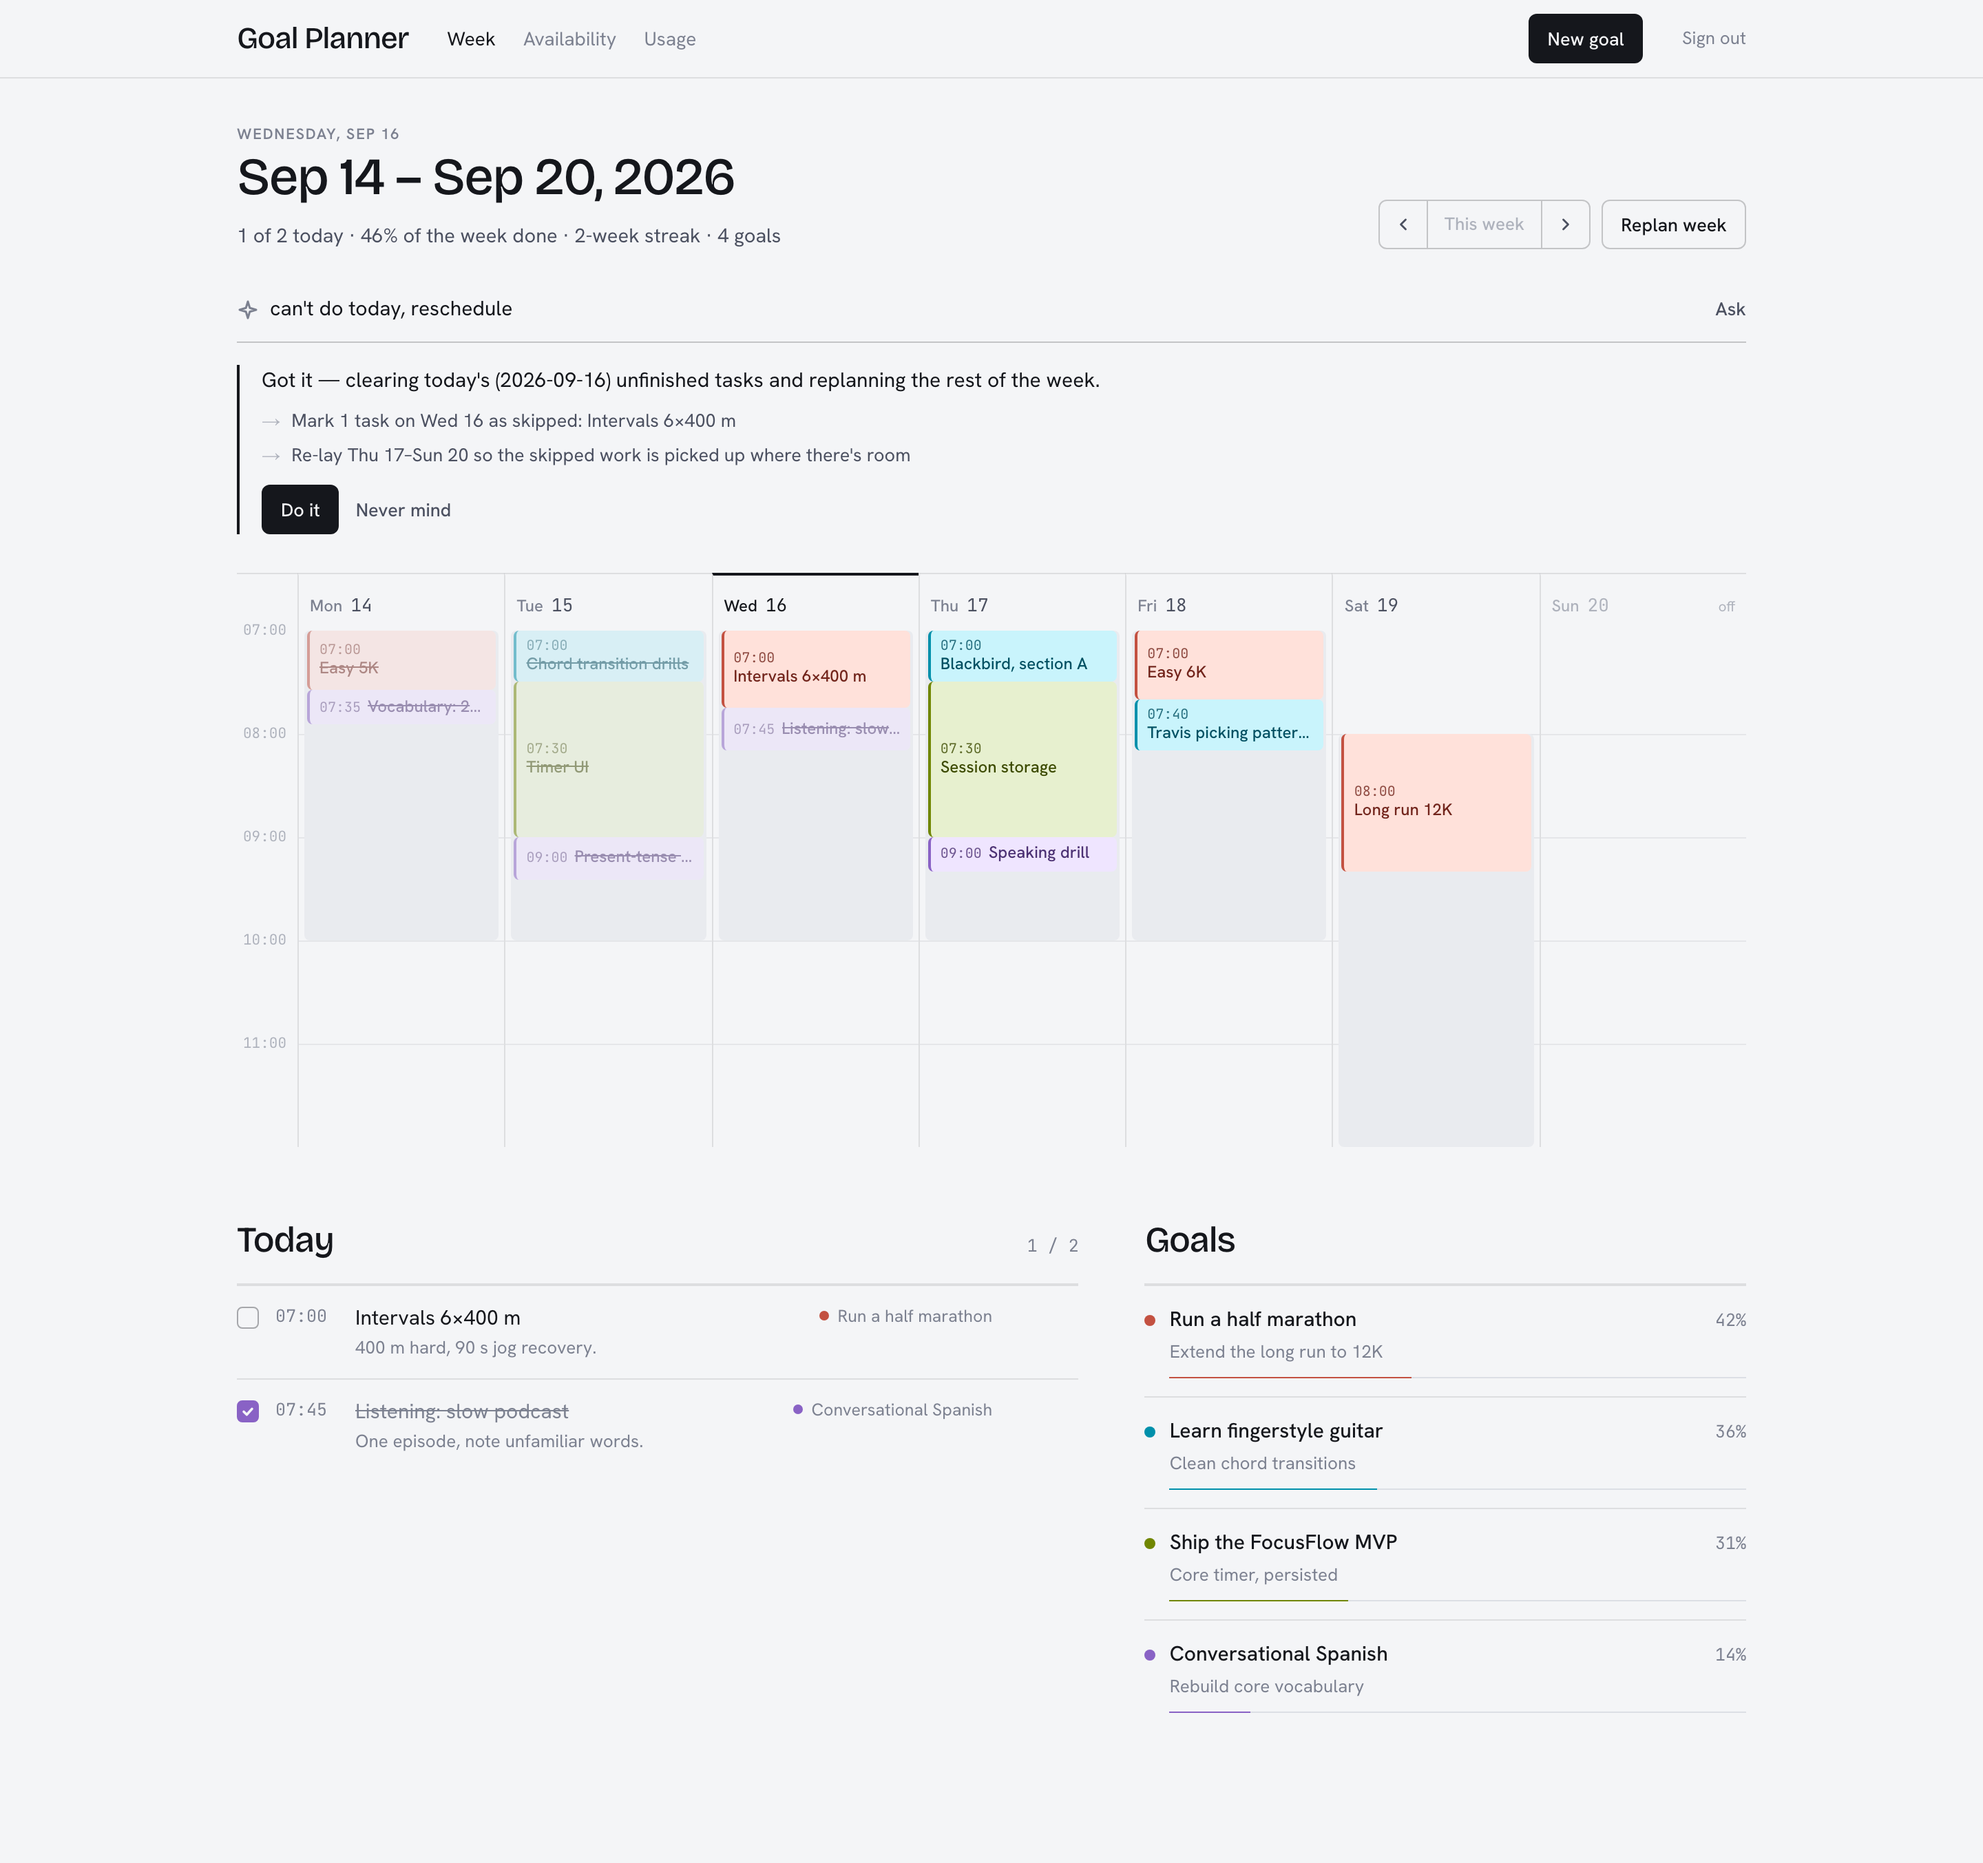
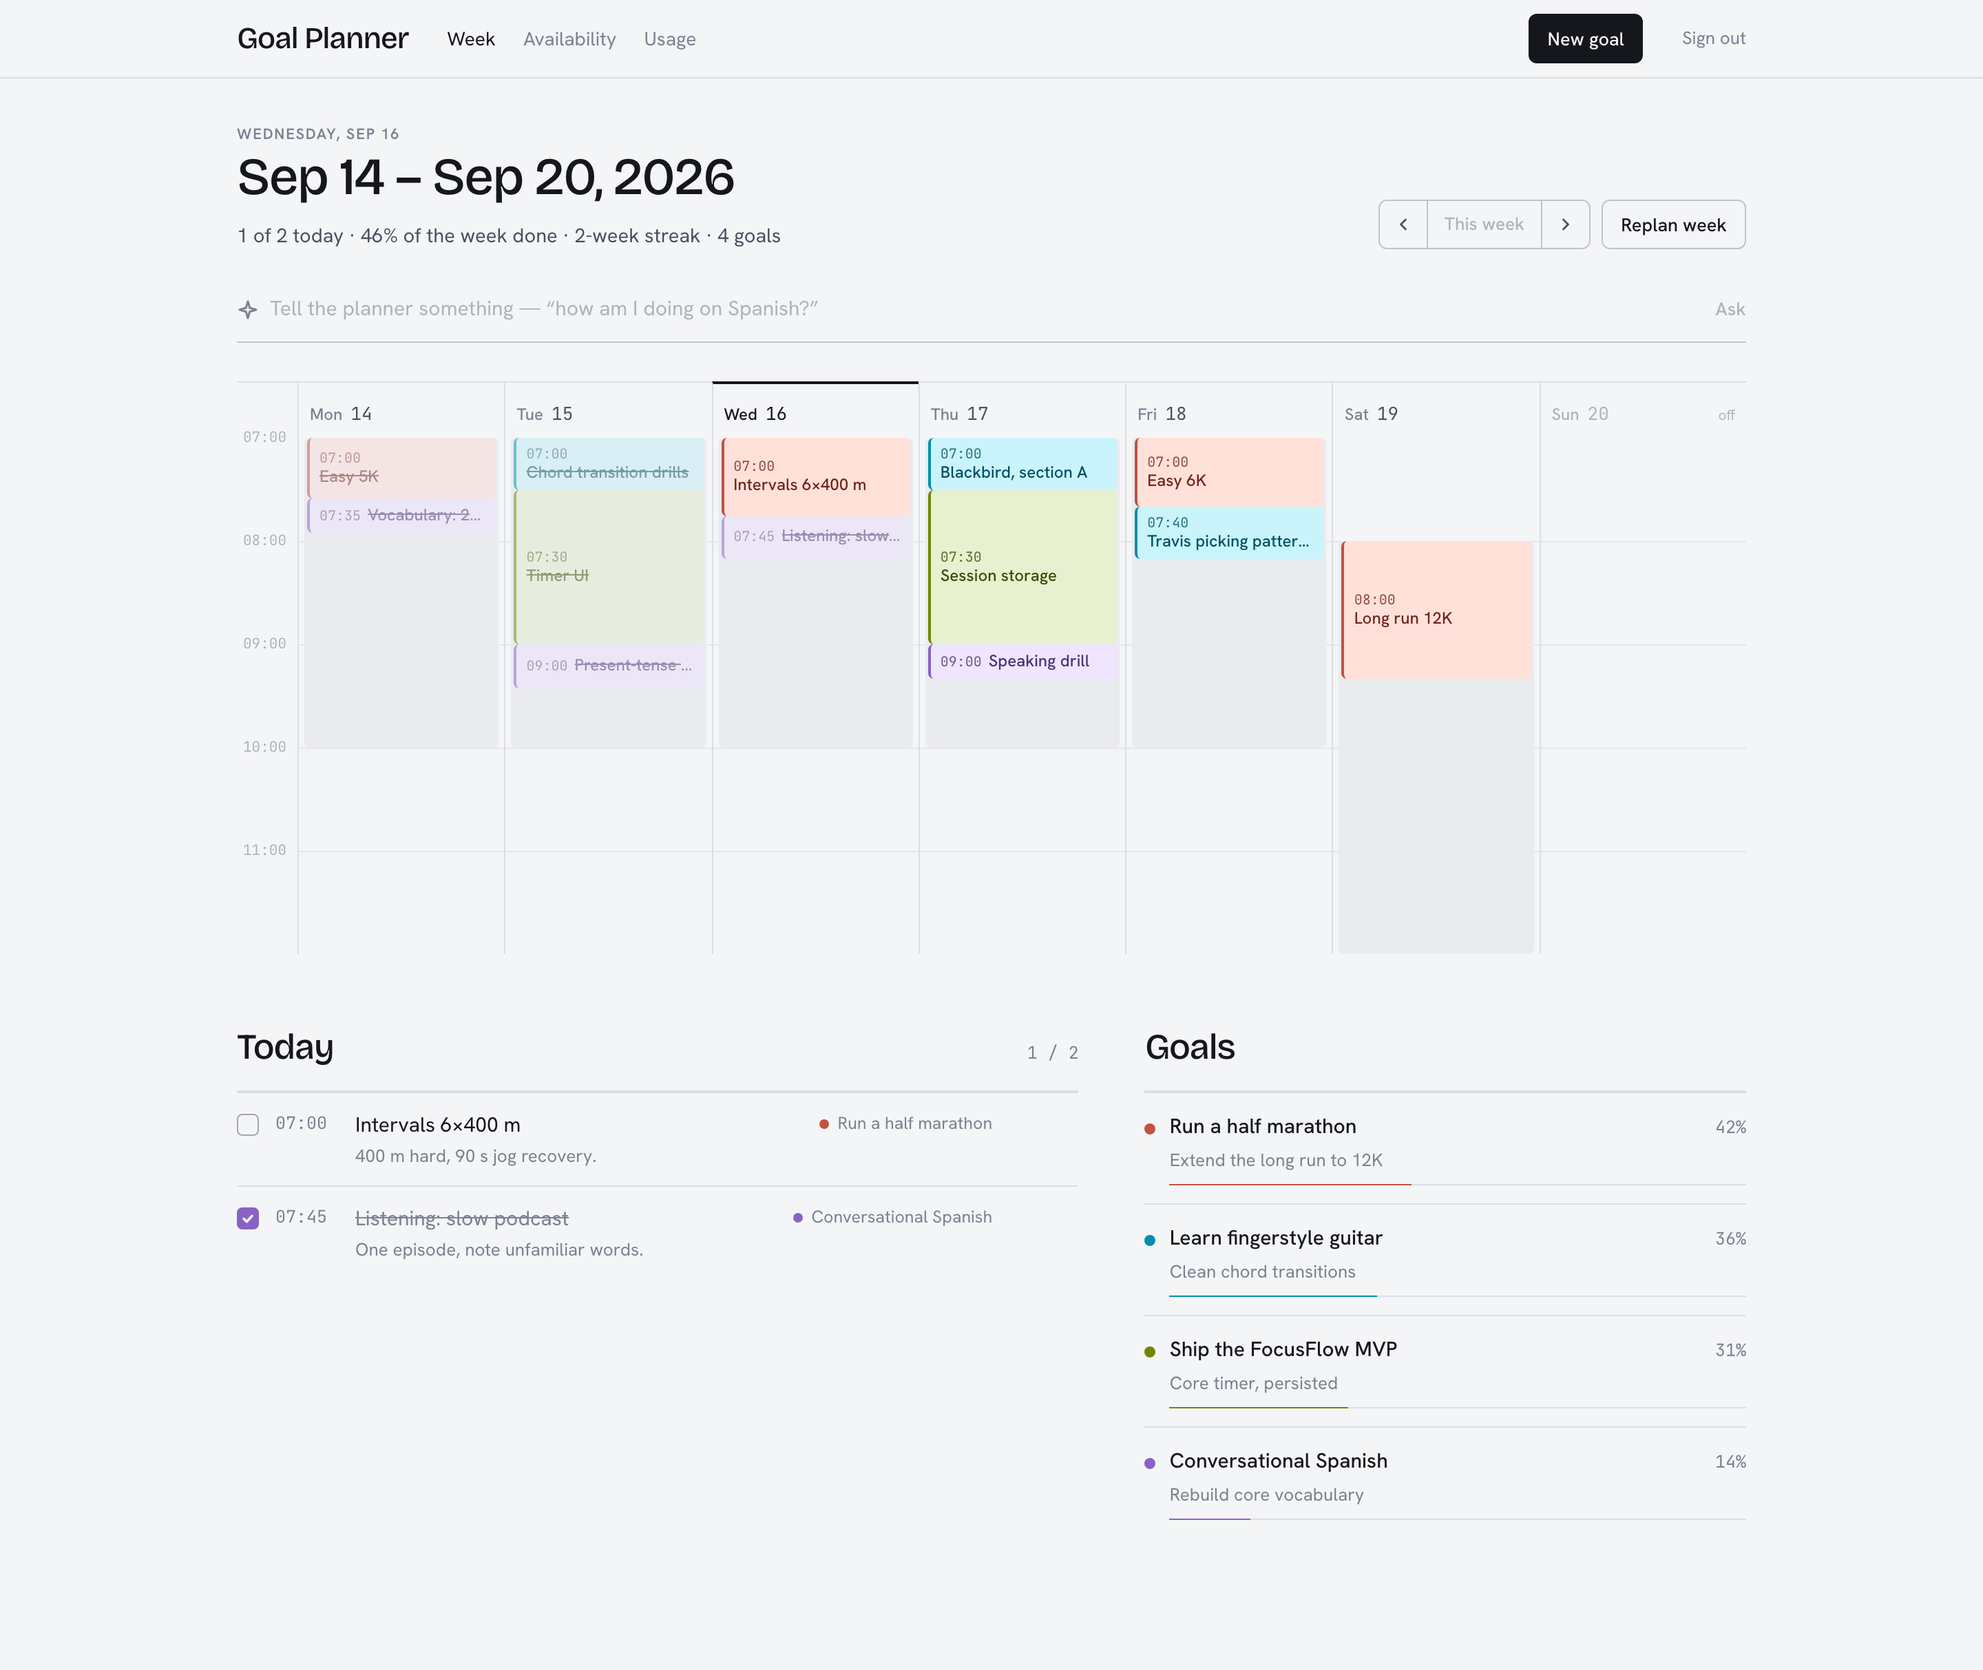
docs: clean week as the hero; the proposal shot moves under 'Talking to it'

diff --git a/README.md b/README.md
@@ -6,7 +6,7 @@ Turns a stated goal into a milestone roadmap, then schedules the work into the h
 
 <!-- TODO: replace the URL above with the real deployment once it's live. -->
 
-![The week — every task drawn inside the free window it was placed in, and a plain-English request turned into a proposal](docs/screenshots/dashboard.png)
+![The week — every task drawn inside the free window it was placed in](docs/screenshots/dashboard.png)
 
 ---
 
@@ -92,6 +92,8 @@ you have. You see exactly what would change before anything does:
 > → Mark 1 task on Wed 16 as skipped: Intervals 6×400 m
 > → Re-lay Thu 17–Sun 20 so the skipped work is picked up where there's room
 > **[Do it]** [Never mind]
+
+![A request typed in plain English, and the proposal it becomes — nothing changes until "Do it"](docs/screenshots/assistant.png)
 
 Three things keep this safe. The model **only classifies** — it picks from an
 enumerated list and can't invent an action. Every id it returns is checked
